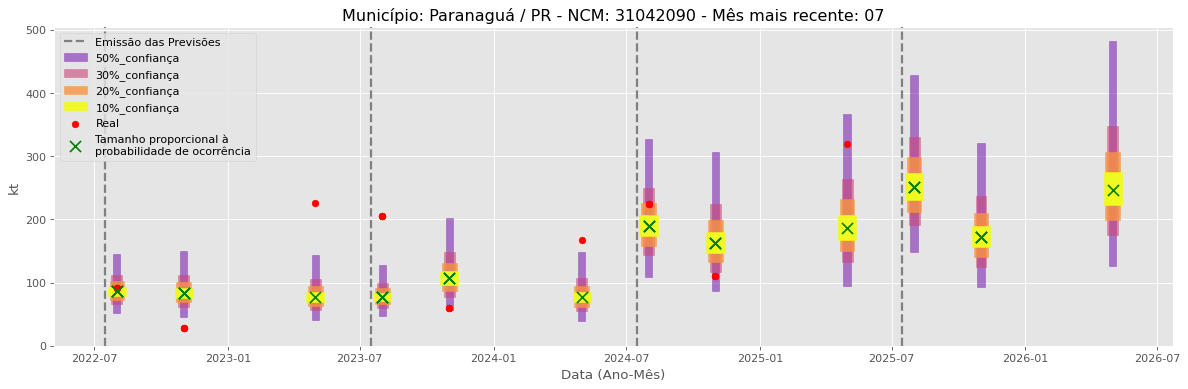
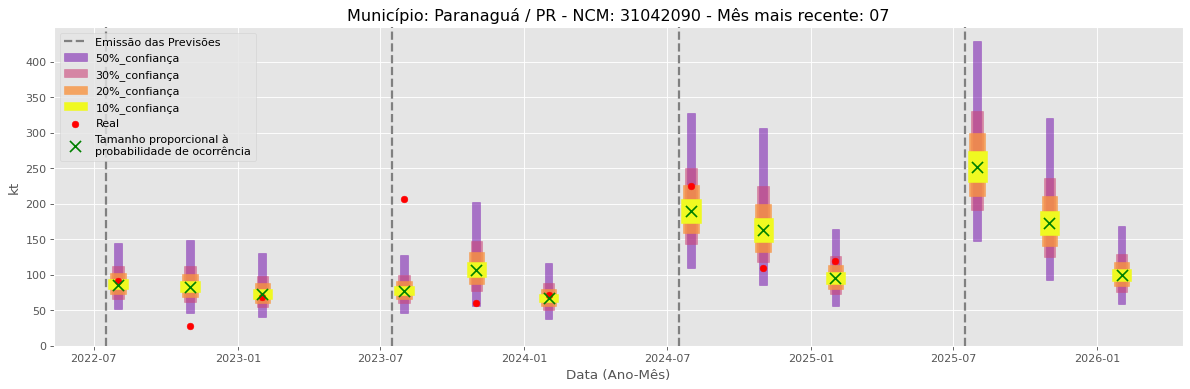
Atualização automática em lote

diff --git a/README.md b/README.md
@@ -21,13 +21,13 @@ Previsões emitidas no mês 8.
 Previsão Influenciada:
 - Município: Paranaguá
 - Produto (NCM): Outros cloretos de potássio-31042090 
-- Mês previsto: 05
+- Mês previsto: 02
 
 
 Fator Influenciador: Comex
-- Unidade Federativa: SC
-- Grupo de Produto (SH2): Sementes e frutos oleaginosos; grãos, sementes e frutos diversos; plantas industriais ou medicinais; palhas e forragens-12 
-- Mês: 6
+- Unidade Federativa: ES
+- Grupo de Produto (SH2): Combustíveis minerais, óleos minerais e produtos da sua destilação; matérias betuminosas; ceras minerais-27 
+- Mês: 9
 - Unidade: sm
 
 
@@ -50,6 +50,27 @@ Fator Influenciador: Comex
 - Grupo de Produto (SH2): Combustíveis minerais, óleos minerais e produtos da sua destilação; matérias betuminosas; ceras minerais-27 
 - Mês: 9
 - Unidade: kt_lag24
+
+
+
+
+
+
+
+![Gráfico de Previsão](31055900.png)
+Fator de Influência em Destaque:
+Previsões emitidas no mês 8.
+Previsão Influenciada:
+- Município: Paranaguá
+- Produto (NCM): Outros adubos/fertilizantes minerais químicos, com nitrogênio e fósforo-31055900 
+- Mês previsto: 08
+
+
+Fator Influenciador: Comex
+- Unidade Federativa: SE
+- Grupo de Produto (SH2): Adubos (fertilizantes)-31 
+- Mês: 3
+- Unidade: kt_lag25
 
 
 
